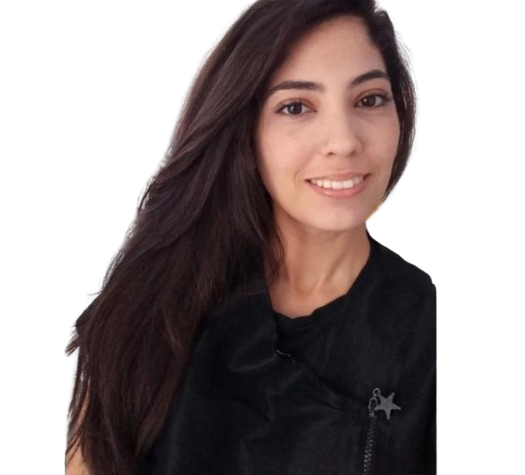
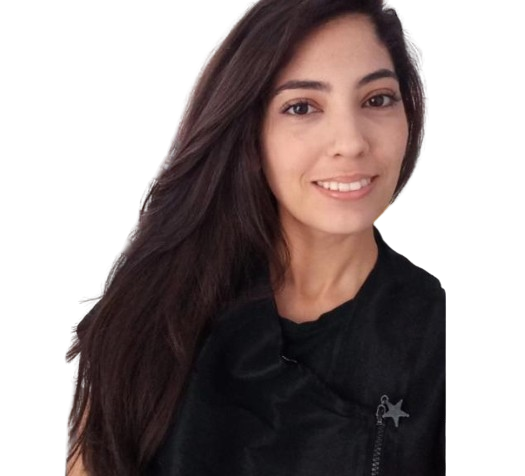
Add files via upload

diff --git a/src/sub-sites/contato.html b/src/sub-sites/contato.html
@@ -1,0 +1,48 @@
+<!DOCTYPE html>
+<html lang="pt-BR">
+<head>
+    <meta charset="UTF-8">
+    <meta http-equiv="X-UA-Compatible" content="IE=edge">
+    <meta name="viewport" content="width=device-width, initial-scale=1.0">
+    <title>Formulário Personalizado</title>
+
+    <link rel="stylesheet" href="/src/css/form.css">
+    <link rel="stylesheet" href="/src/css/reset.css">
+    <link rel="stylesheet" href="/src/css/responsivo.css">
+</head>
+<body>
+
+
+    
+    <section class="form-container">
+        <div class="container">
+            <form method="post" action="envia.php">
+                <h1>Entre em contato</h1>
+                <p>Preencha o formulário abaixo e entraremos em contato com você</p>
+                <div class="input-single">
+                    <input class="input" type="text" id="nome" name="nome" required autocomplete="off">
+                    <label for="nome">Seu nome completo</label>
+                </div>
+                <div class="input-single">
+                    <input class="input" type="text" id="email" name="email" required autocomplete="off">
+                    <label for="email">Seu e-mail</label>
+                </div>
+                <div class="input-single">
+                    <input class="input" type="text" id="telefone" name="telefone" required autocomplete="off">
+                    <label for="telefone">Seu telefone</label>
+                </div>
+                <div class="btn"><input type="submit" value="Enviar"></div>
+                
+                <div class="inicio">
+                    
+                    <a href="/index.htm"><h1>Inicio</h1></a>
+
+                </div>
+            </form>
+
+            
+          
+        </div>
+    </section>
+</body>
+</html>

diff --git a/index.htm b/index.htm
@@ -21,9 +21,10 @@
     href="https://fonts.googleapis.com/css2?family=Poppins:ital,wght@0,100;0,200;0,300;0,400;0,500;0,600;0,700;0,800;0,900;1,100;1,200;1,300;1,400;1,500;1,600;1,700;1,800;1,900&family=Raleway:ital,wght@0,100..900;1,100..900&display=swap"
     rel="stylesheet">
 
-  <link rel="stylesheet" href="./src/css/reset.css" />
-  <link rel="stylesheet" href="./src/css/estilos.css">
-  <link rel="stylesheet" href="./src/css/responsivo.css">
+  <link rel="stylesheet" href="./src/css/estilos.css" />
+  <link rel="stylesheet" href="./src/css/reset.css">
+  <link rel="stylesheet" href="/src/css/responsivo.css">
+ 
 
 
 </head>
@@ -55,7 +56,7 @@
     <nav class="menu2">
       <ul>
         <li>
-          <a href="/src/contato.html">Contato</a>
+          <a href="/src/sub-sites/contato.html">Contato</a>
         </li>
 
       </ul>
@@ -94,7 +95,7 @@
 
     <div class="container-foto">
       <div class="foto sombra-interna">
-        <img src="./src/imagens/foto-perfil.png" alt="Foto de perfil da Thaynara">
+        <img src="/src/imagens/foto-perfil.png" alt="Foto de perfil da Thaynara">
       </div>
     </div>
   </section>
